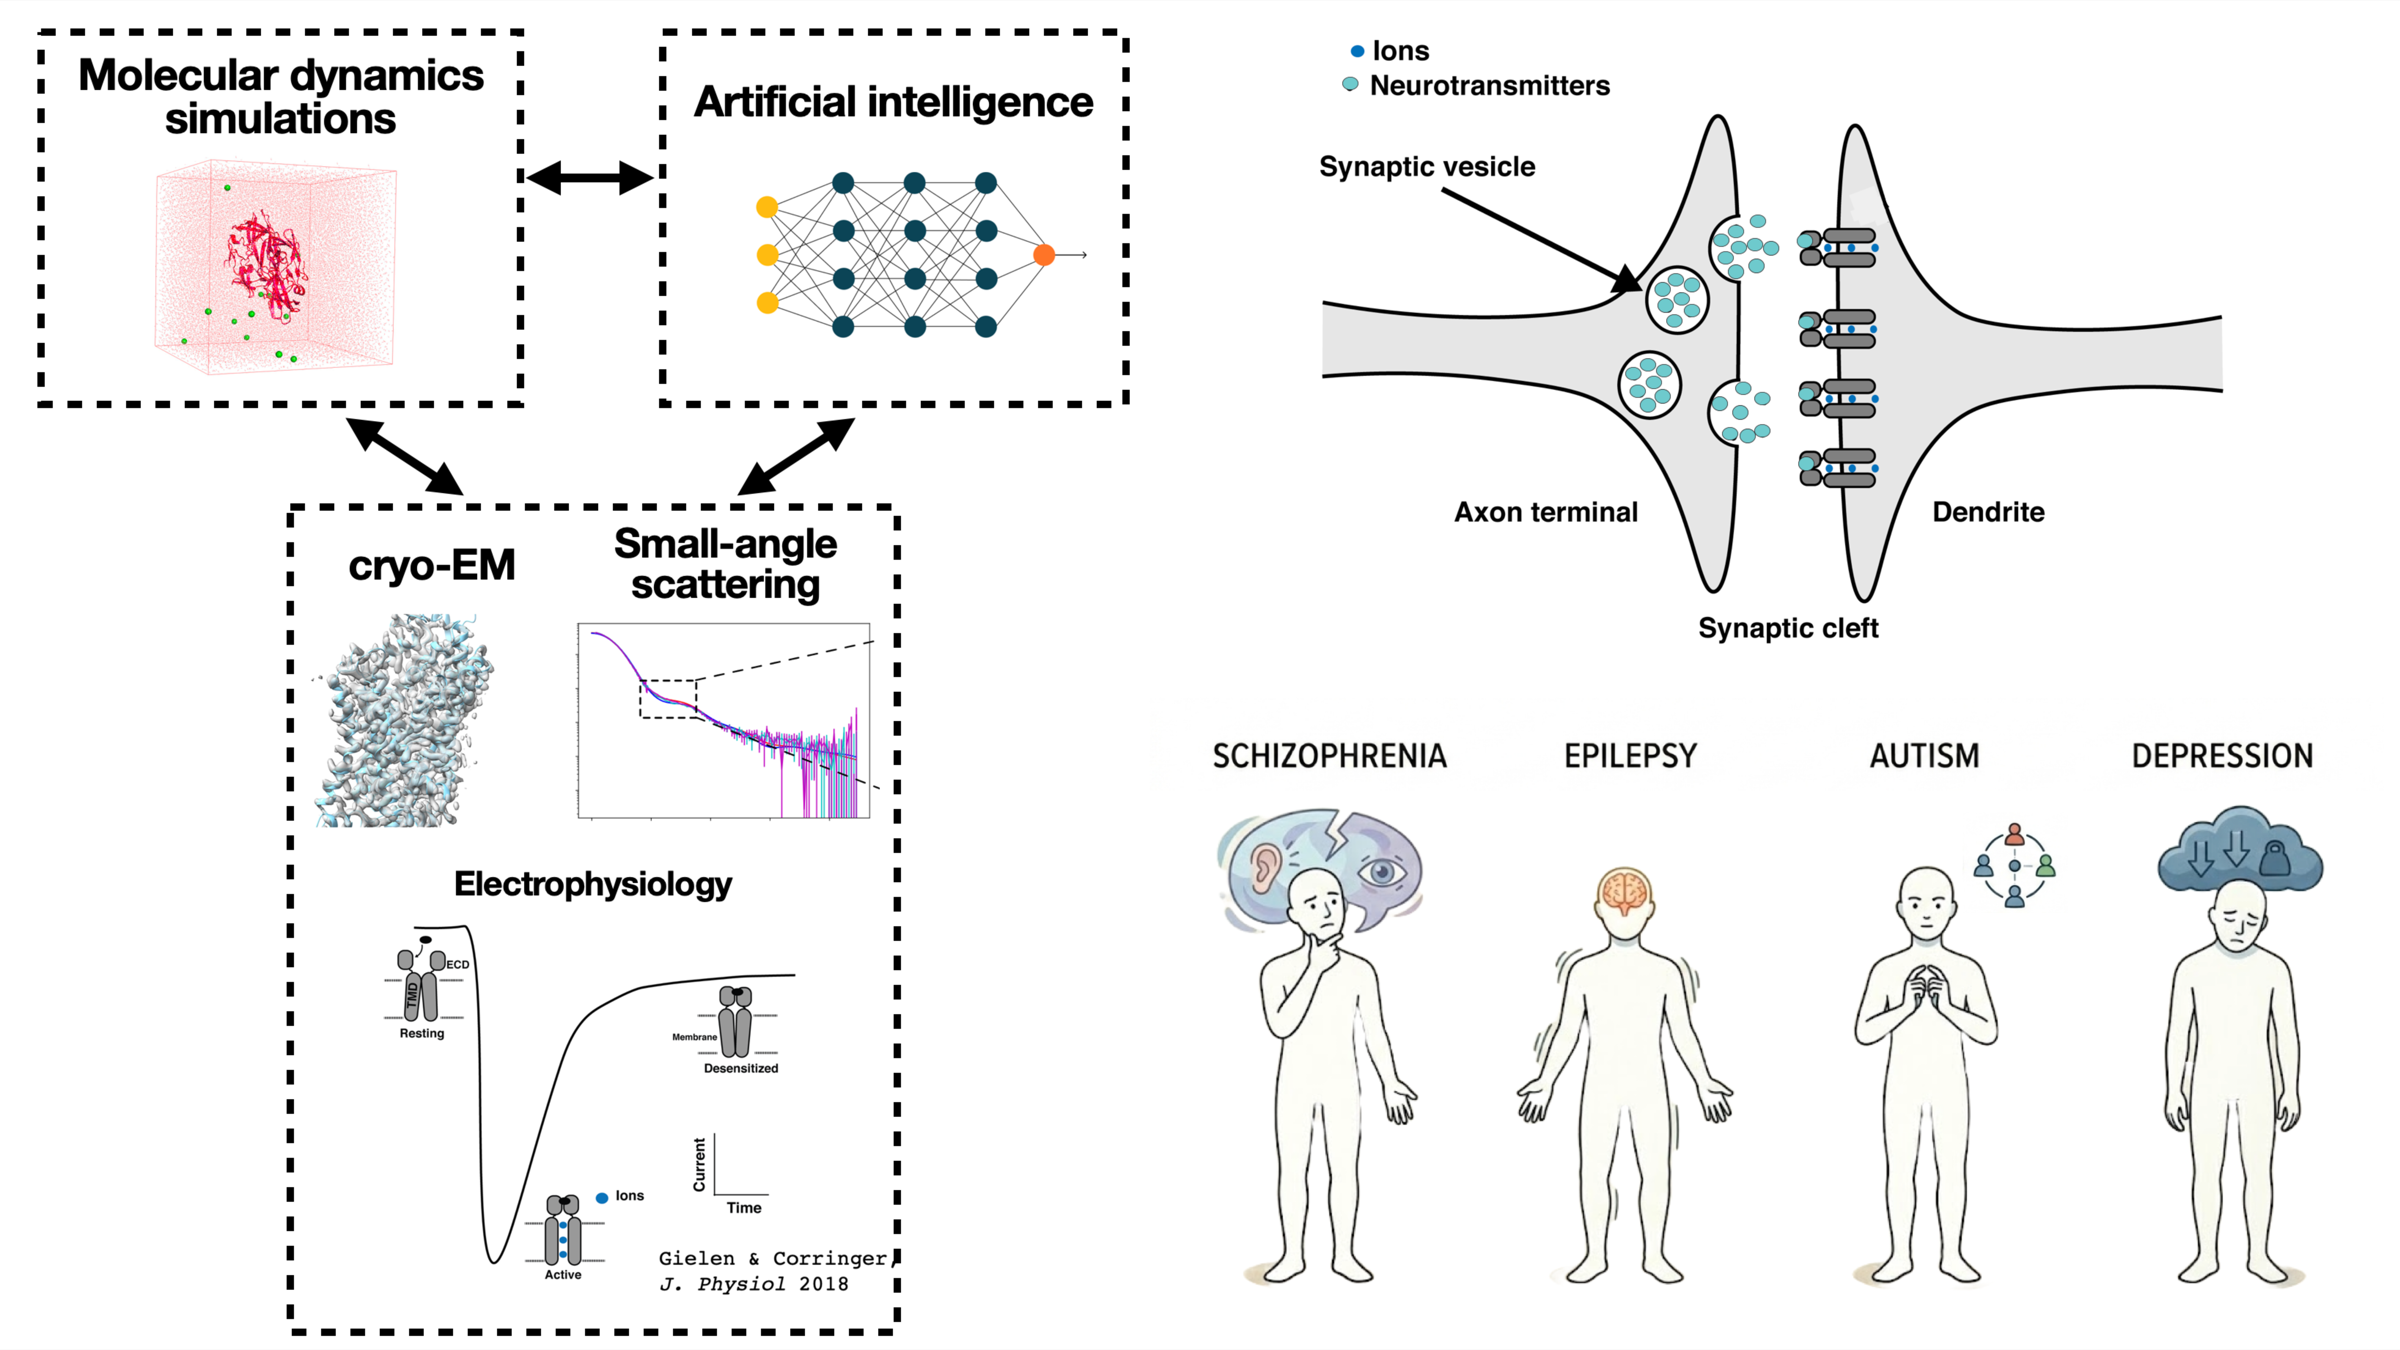
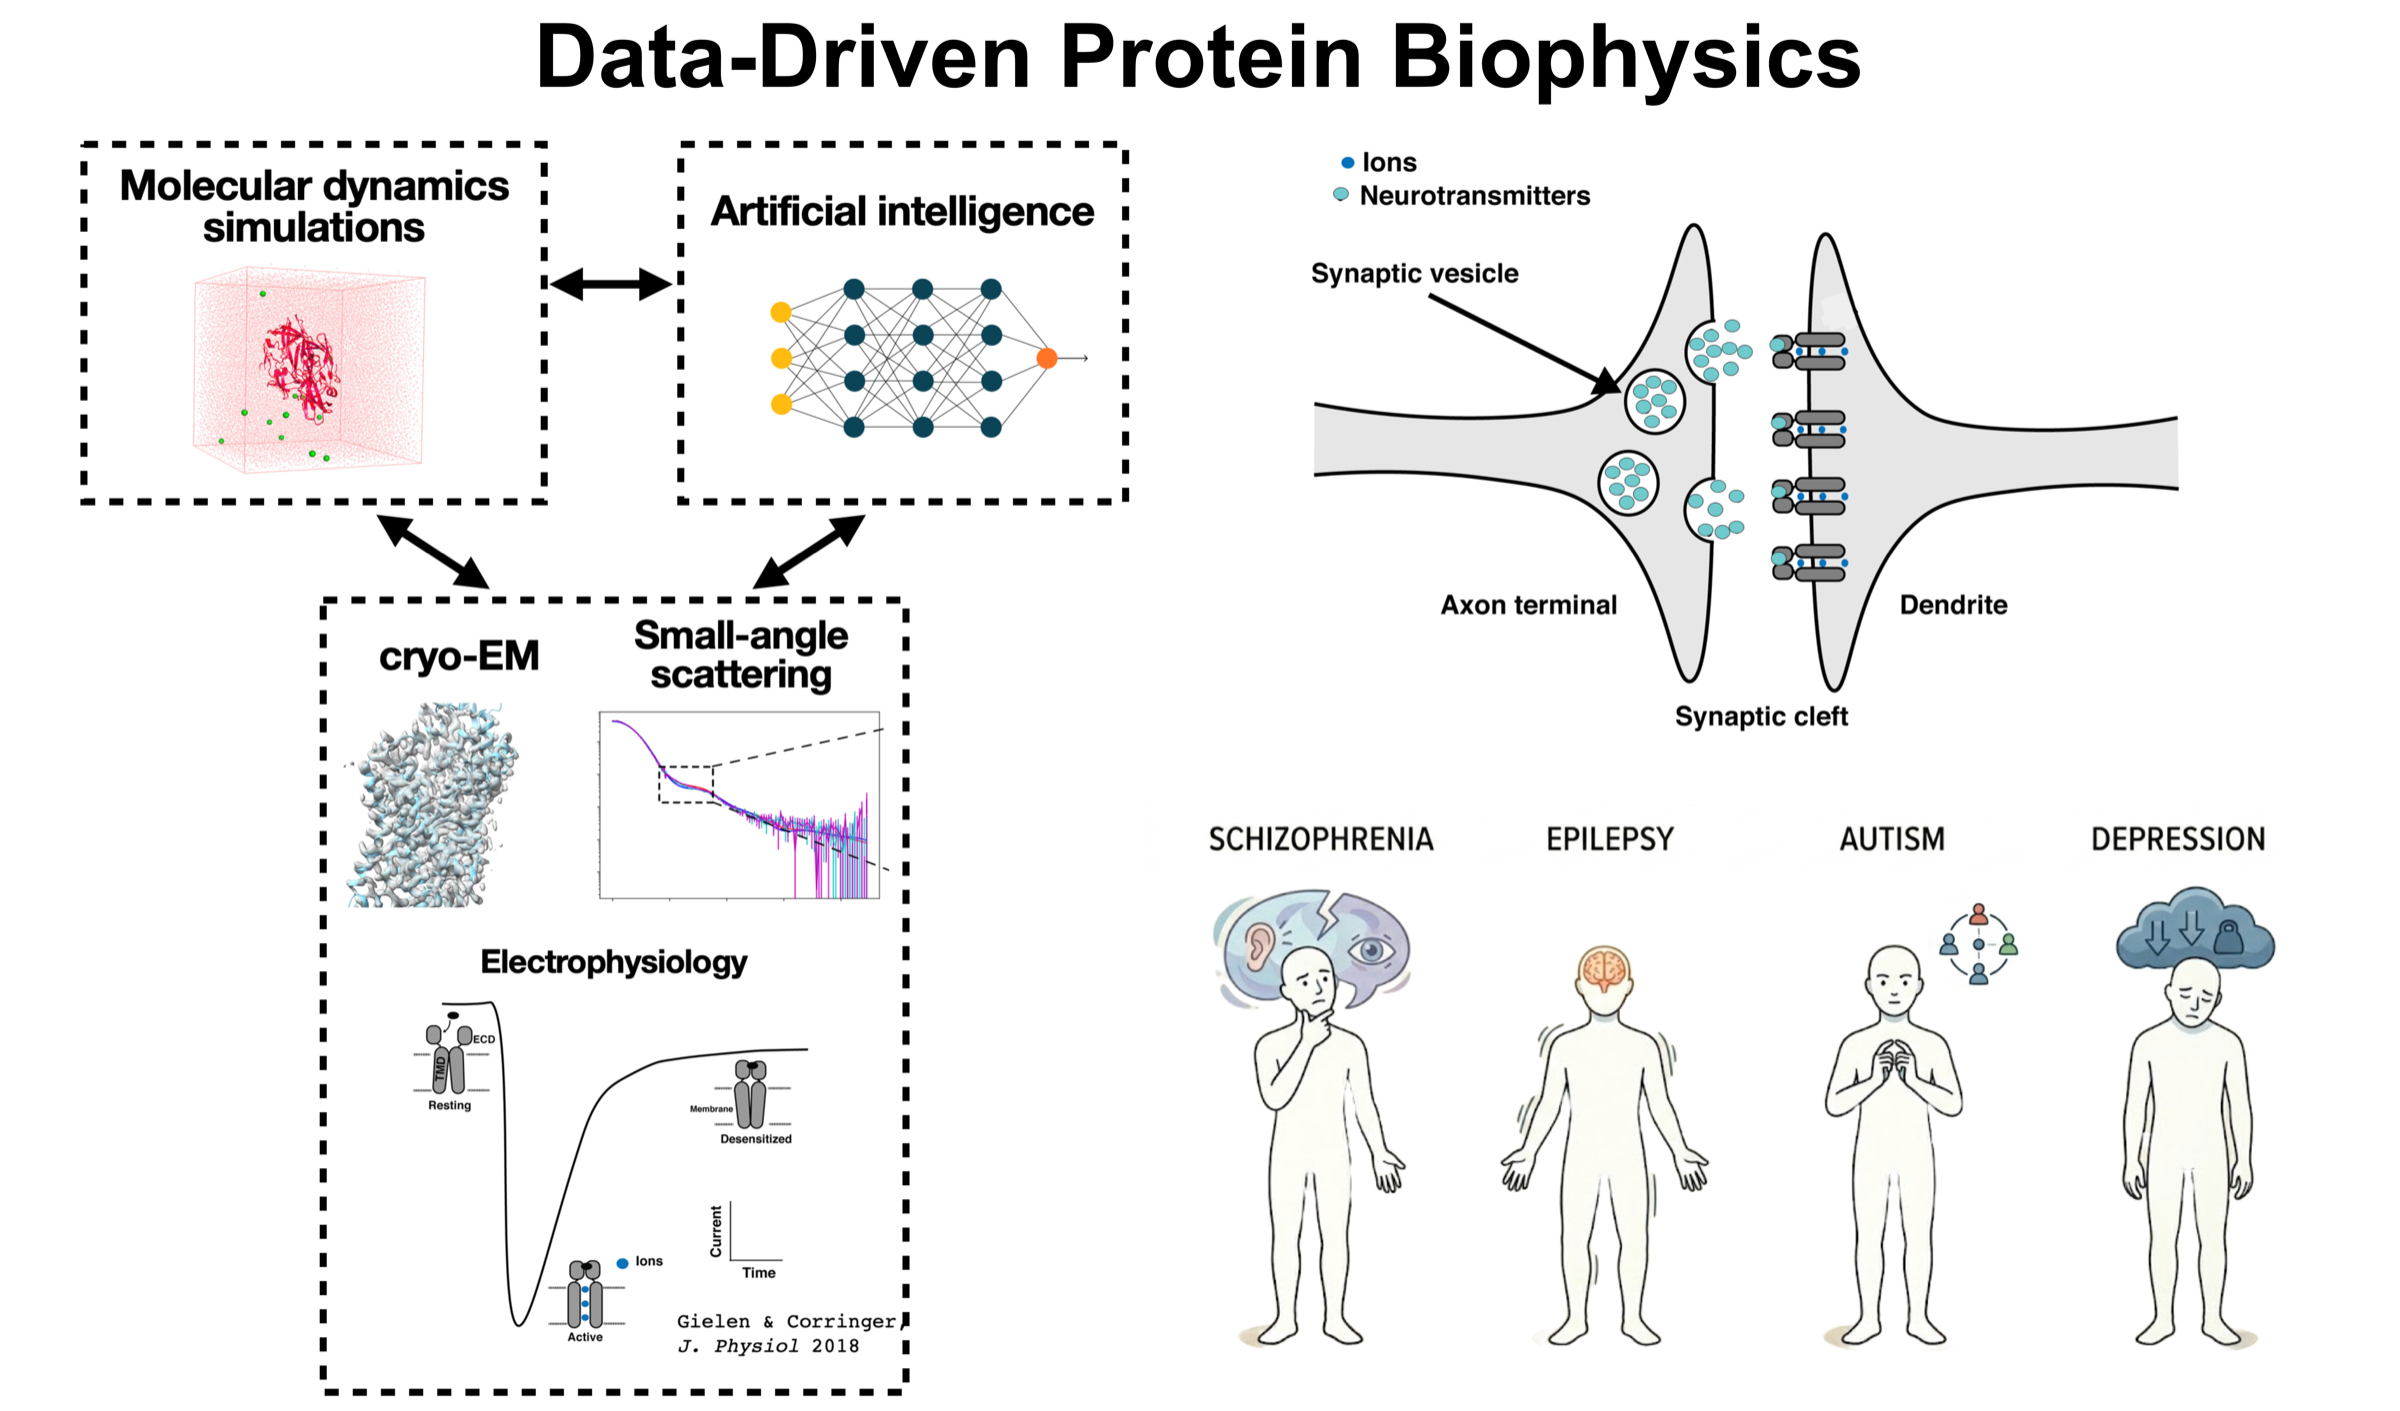
Make hero image true edge-to-edge, no side gutters
New heropage.png has the headline baked into the artwork, so the
separate visible title is now redundant - render it as a visually-
hidden heading instead (kept for accessibility/SEO; screen readers
and search engines can't read text baked into an image).

Getting the image edge-to-edge exposed two real bugs, not just
missing CSS:

- hero-config.html's `use_container: false` never worked. The
  wrapper template applies it via `{{ with $cfg.use_container }}`,
  and Hugo's `with` treats a literal `false` as empty and skips the
  block - so the container's max-width kept capping the image no
  matter what the config returned. Worked around it by neutralizing
  `.wg-hero .container` directly in CSS instead of fighting the hook.
- This Bootstrap build doesn't generate a `.visually-hidden` utility
  class at all, so the "hidden" title was rendering fully visible.
  Defined the standard accessible-hiding CSS by hand instead of
  relying on Bootstrap for it.

Verified the fix with the actual rendered HTML/CSS, not just the
screenshot, since the screenshot alone made it look like a template
edit hadn't taken effect when the real cause was these two bugs.

diff --git a/layouts/partials/blocks/hero.html b/layouts/partials/blocks/hero.html
@@ -1,92 +1,39 @@
 {{/* Hugo Blox: Hero (site override) */}}
-{{/* Based on the upstream hero block, but renders the image at full section width */}}
-{{/* instead of squeezed into a half-width column, since our hero image is a dense */}}
-{{/* infographic that needs to be large to stay legible. */}}
+{{/* The hero image now has the headline baked into it, so this block renders */}}
+{{/* just the image, full-bleed edge-to-edge (see hero-config.html, which turns */}}
+{{/* off the theme's default `.container` wrap for this block specifically). */}}
+{{/* The title is kept as a visually-hidden heading, since text baked into an */}}
+{{/* image isn't readable by screen readers or indexable by search engines. */}}
 
-{{/* Initialise */}}
 {{ $page := .wcPage }}
 {{ $block := .wcBlock }}
-{{ $bg := $block.design.background }}
 
-<div class="row">
-  <div class="col-12 text-center">
+{{ with $block.content.title }}
+  <h1 class="visually-hidden">{{ . | markdownify }}</h1>
+{{ end }}
 
-    {{ with $block.content.title }}
-      <h1 class="hero-title">{{ . | markdownify }}</h1>
-    {{ end }}
+{{ if $block.content.image.filename }}
+  {{- $image := resources.Get (path.Join "media" $block.content.image.filename) -}}
+  {{ if $image }}
+    {{ $isSVG := eq $image.MediaType.SubType "svg" }}
+    {{ if $isSVG -}}
+      <img src="{{ $image.RelPermalink }}" alt="{{ $block.Title }}" class="hero-media-full">
+    {{- else }}
+      {{ $legacy_img := $image.Resize "1920x" }}
+      {{ $img_src := "" }}
+      {{ $img_src_set := slice }}
+      {{ $widths := slice 2400 1920 1200 800 400 }}
 
-    {{ with $block.content.text }}
-      <div class="hero-lead">{{ . | $page.RenderString | emojify }}</div>
-    {{ end }}
-
-    {{/* Call-to-action link */}}
-    {{ if $block.content.cta.url }}
-      {{ $pack := or $block.content.cta.icon_pack "fas" }}
-      {{ $pack_prefix := $pack }}
-      {{ if in (slice "fab" "fas" "far" "fal") $pack }}
-        {{ $pack_prefix = "fa" }}
-      {{ end }}
-      {{ $link := $block.content.cta.url }}
-      {{ $scheme := (urls.Parse $link).Scheme }}
-      {{ $target := "" }}
-      {{ if not $scheme }}
-        {{ $link = $link | relLangURL }}
-      {{ else if in (slice "http" "https") $scheme }}
-        {{ $target = "target=\"_blank\" rel=\"noopener\"" }}
-      {{ end }}
-    <p class="cta-btns">
-      <a href="{{ $link | safeURL }}" {{ $target | safeHTMLAttr }} class="btn {{if $bg.text_color_light}}btn-light{{else}}btn-primary{{end}} btn-lg mb-md-1">{{ if $block.content.cta.icon }}<i class="{{ $pack }} {{ $pack_prefix }}-{{ $block.content.cta.icon }} pr-1" aria-hidden="true"></i>{{end}}{{ $block.content.cta.label | markdownify | emojify | safeHTML }}</a>
-
-      {{/* Alternative Call-to-action link */}}
-      {{ if $block.content.cta_alt.url }}
-        {{ $link := $block.content.cta_alt.url }}
-        {{ $scheme := (urls.Parse $link).Scheme }}
-        {{ $target := "" }}
-        {{ if not $scheme }}
-          {{ $link = $link | relLangURL }}
-        {{ else if in (slice "http" "https") $scheme }}
-          {{ $target = "target=\"_blank\" rel=\"noopener\"" }}
+      {{ range $widths }}
+        {{ $src_link := ($image.Resize (printf "%dx" .)).RelPermalink }}
+        {{ if eq $img_src "" }}
+          {{ $img_src = $src_link }}
         {{ end }}
-      <a href="{{ $link | safeURL }}" {{ $target | safeHTMLAttr }} class="hero-cta-alt btn-lg pl-md-4">{{ $block.content.cta_alt.label | markdownify | emojify | safeHTML }} <i class="fas fa-angle-right"></i></a>
+        {{ $img_src_set = $img_src_set | append (printf "%s %dw" $src_link .) }}
       {{ end }}
-    </p>
+      {{ $img_src_set = delimit $img_src_set "," }}
+
+      <img src="{{ $legacy_img.RelPermalink }}" srcset="{{ $img_src_set }}" sizes="100vw" width="{{ $image.Width }}" height="{{ $image.Height }}" alt="{{ $block.Title }}" class="hero-media-full">
     {{ end }}
-
-    {{/* Call-to-action note */}}
-    {{ with $block.content.cta_note }}
-    <p class="hero-note text-muted mb-3 mb-md-1">
-      {{ .label | markdownify | emojify | safeHTML }}
-    </p>
-    {{ end }}
-
-  </div>
-
-  {{/* Hero image: full width, below the text */}}
-  {{ if $block.content.image.filename }}
-  <div class="col-12 hero-media hero-media-full">
-    {{- $image := resources.Get (path.Join "media" $block.content.image.filename) -}}
-    {{ if $image }}
-      {{ $isSVG := eq $image.MediaType.SubType "svg" }}
-      {{ if $isSVG -}}
-        <img src="{{ $image.RelPermalink }}" alt="{{ $block.Title }}">
-      {{- else }}
-        {{ $legacy_img := $image.Resize "1920x" }}
-        {{ $img_src := "" }}
-        {{ $img_src_set := slice }}
-        {{ $widths := slice 1920 1200 800 400 }}
-
-        {{ range $widths }}
-          {{ $src_link := ($image.Resize (printf "%dx" .)).RelPermalink }}
-          {{ if eq $img_src "" }}
-            {{ $img_src = $src_link }}
-          {{ end }}
-          {{ $img_src_set = $img_src_set | append (printf "%s %dw" $src_link .) }}
-        {{ end }}
-        {{ $img_src_set = delimit $img_src_set "," }}
-
-        <img src="{{ $legacy_img.RelPermalink }}" srcset="{{ $img_src_set }}" sizes="100vw" width="{{ $image.Width }}" height="{{ $image.Height }}" alt="{{ $block.Title }}">
-      {{ end }}
-    {{ end }}
-  </div>
   {{ end }}
-</div>
+{{ end }}

diff --git a/assets/scss/custom.scss b/assets/scss/custom.scss
@@ -1,36 +1,47 @@
 // Site-specific overrides. This file is imported last by the theme, after
 // all Bootstrap/theme styles, so rules here win without needing !important.
 
-// Hero section: fit entirely within the opening viewport (title + figure,
-// no scrolling needed). 70px accounts for the sticky navbar's height.
-// `.home-section` normally adds 110px of padding top/bottom - that ate
-// most of the vertical budget, leaving the image much smaller than the
-// available screen space, so it's trimmed down here too.
+// Hero section: the image (title baked in) fills the section edge-to-edge,
+// full viewport width, with no side gutters and no container cap. Height is
+// auto (full image, no cropping) so nothing in the image gets clipped; on
+// screens where the image's aspect ratio is taller than the viewport this
+// may need a small scroll to see the very bottom, which is preferable to
+// cropping content out of it.
 .wg-hero {
   min-height: calc(100vh - 70px);
-  padding: 20px 0;
+  padding: 0;
   display: flex;
-  align-items: center;
-}
+  align-items: flex-start;
 
-.hero-title {
-  margin-bottom: 0.5rem;
+  // The theme's `hero-config.html` hook for disabling the `.container` wrap
+  // doesn't actually work - Hugo's `with` skips when the config value is
+  // literally `false`, so `use_container: false` never applies. Neutralizing
+  // the container here directly instead.
+  .container {
+    max-width: 100%;
+    padding-left: 0;
+    padding-right: 0;
+  }
 }
 
 .hero-media-full {
-  display: flex;
-  justify-content: center;
-  margin-top: 0.5rem;
+  display: block;
+  width: 100%;
+  height: auto;
+}
 
-  img {
-    width: auto;
-    max-width: 100%;
-    height: auto;
-    max-height: calc(100vh - 200px);
-    object-fit: contain;
-    border-radius: 12px;
-    box-shadow: 0 20px 60px rgba(0, 0, 0, 0.35);
-  }
+// This Bootstrap build doesn't generate a `.visually-hidden` utility class,
+// so define the standard accessible-hiding pattern ourselves.
+.visually-hidden {
+  position: absolute !important;
+  width: 1px !important;
+  height: 1px !important;
+  padding: 0 !important;
+  margin: -1px !important;
+  overflow: hidden !important;
+  clip: rect(0, 0, 0, 0) !important;
+  white-space: nowrap !important;
+  border: 0 !important;
 }
 
 // Journey page map: this section uses a widened article column

diff --git a/layouts/partials/blocks/hero-config.html b/layouts/partials/blocks/hero-config.html
@@ -1,0 +1,2 @@
+{{/* Disable the default `.container` wrap for the hero block so its image can render truly edge-to-edge (see layouts/partials/blocks/hero.html). */}}
+{{ return dict "use_container" false }}